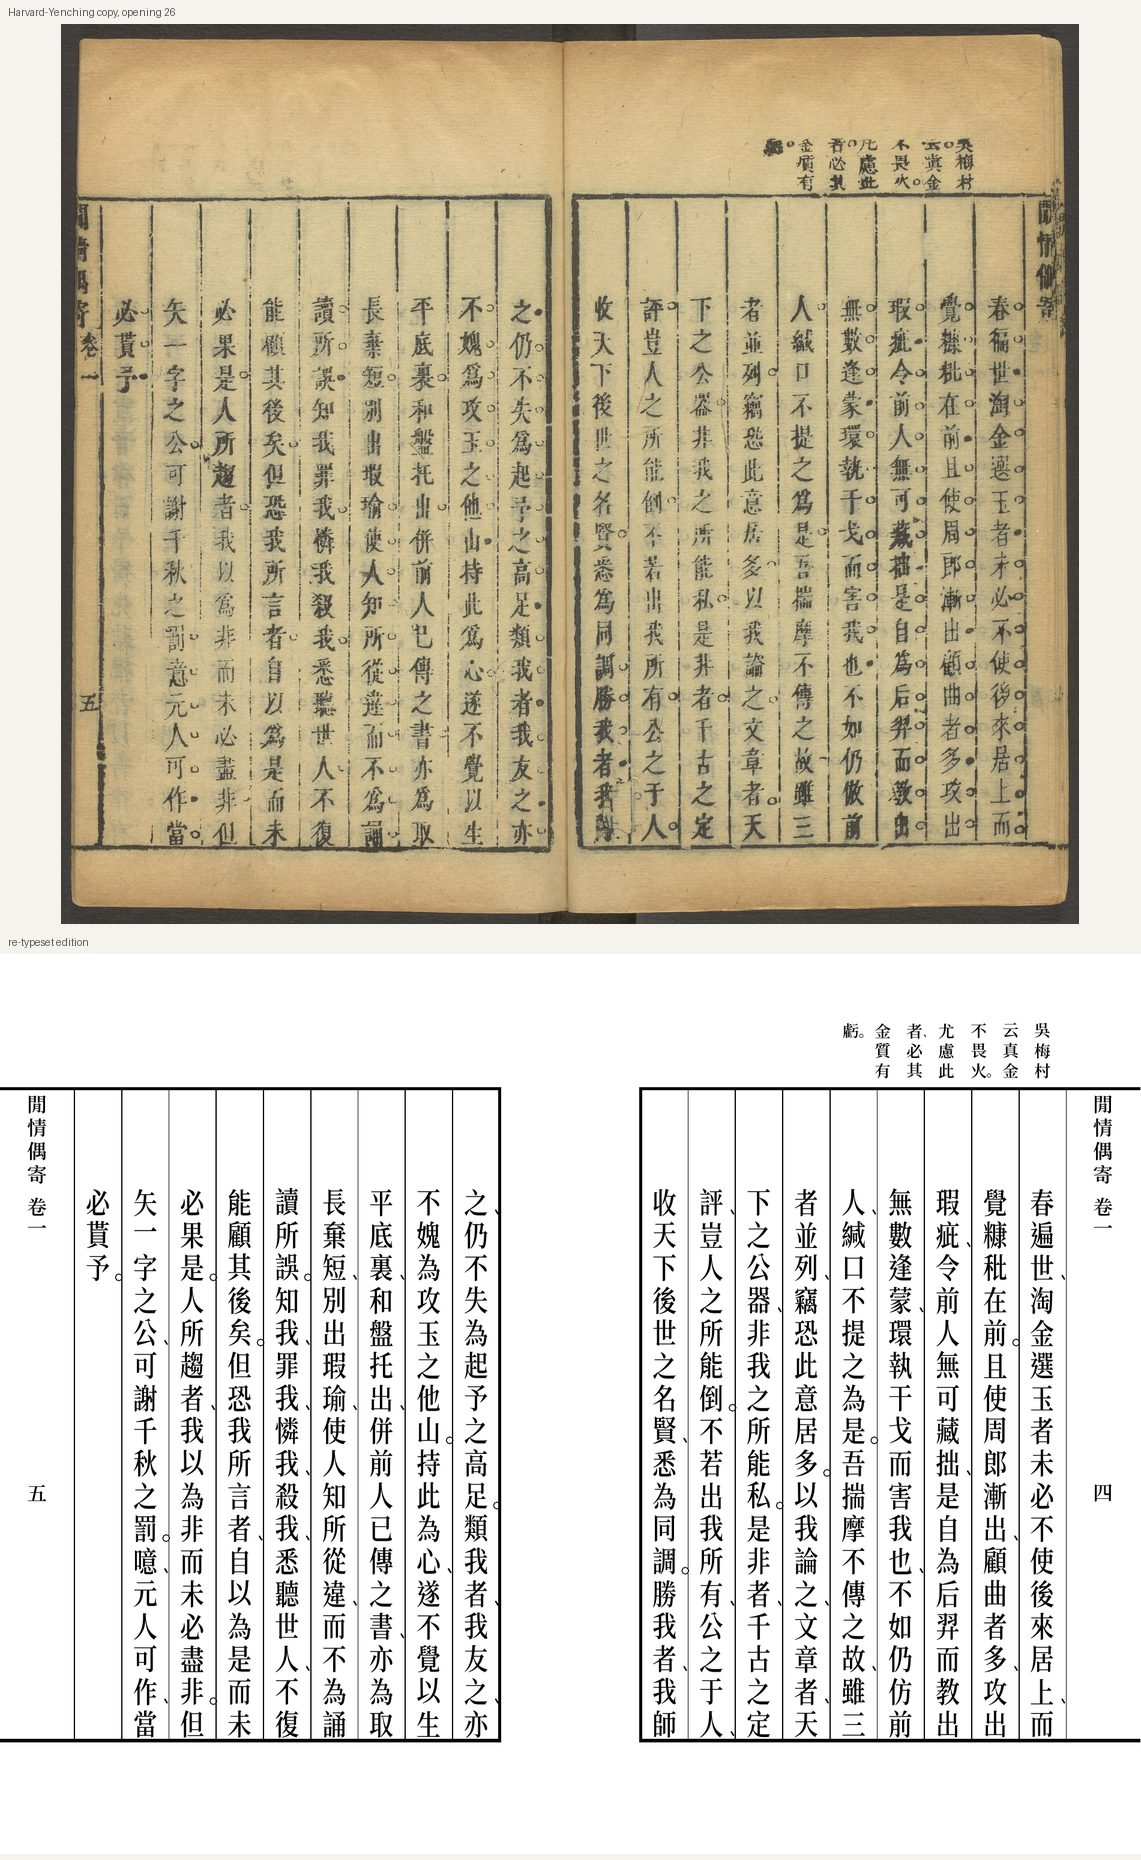
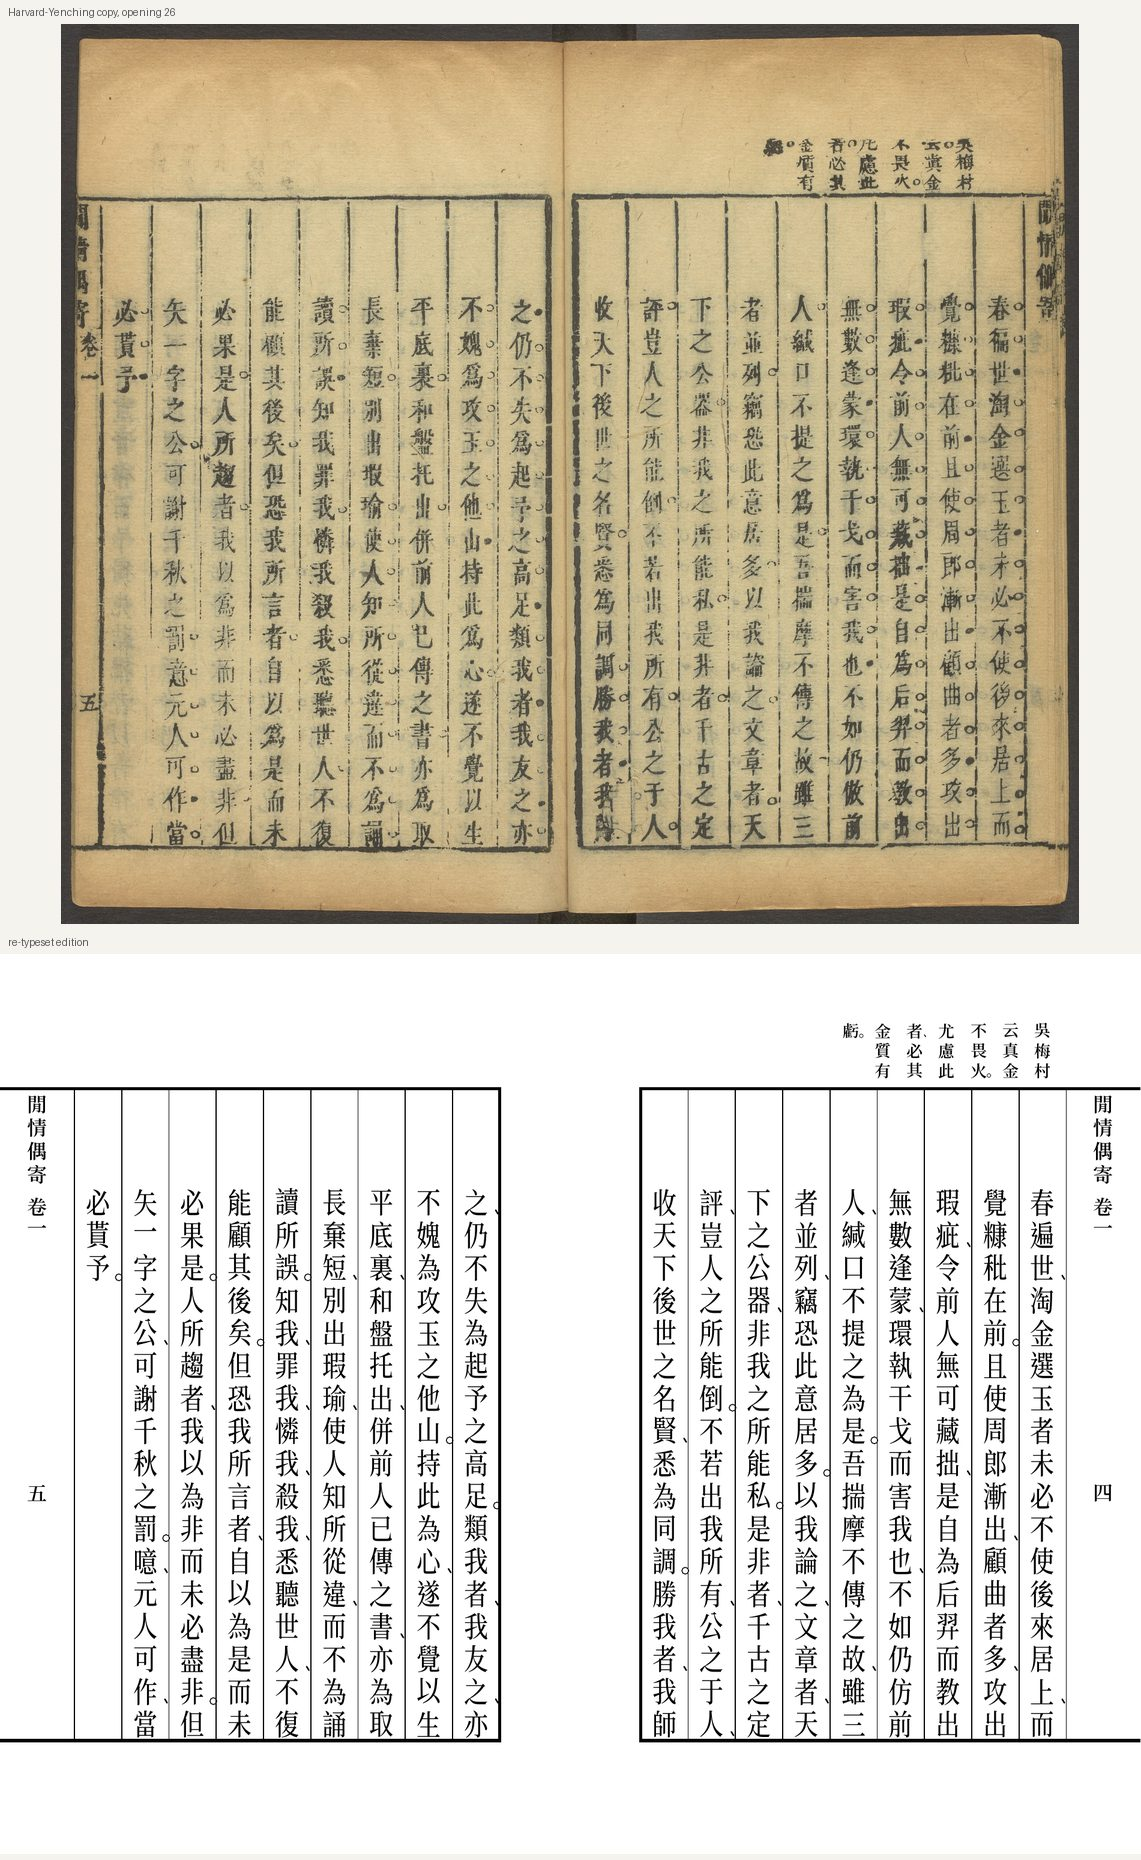
正文字重改為 Medium（較 SemiBold 細一檔）

diff --git a/preamble.tex b/preamble.tex
@@ -7,7 +7,7 @@
 \newfontfamily\song{NotoSerifTC-SemiBold.otf}[Path=fonts/]
 % body text: the Kangxi 宋體 is tall and narrow -- condense the square Noto glyphs
 % (layout `font: songT`, with a larger `size` so the characters gain height)
-\newfontfamily\songT{NotoSerifTC-SemiBold.otf}[Path=fonts/,FakeStretch=0.82]
+\newfontfamily\songT{NotoSerifTC-Medium.otf}[Path=fonts/,FakeStretch=0.82]
 % 全字庫正楷體 is thin beside the written-out preface; embolden it a little
 \newfontfamily\kai{TW-Kai.ttf}[Path=fonts/,FakeBold=1.6]
 
